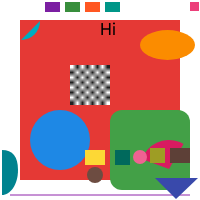
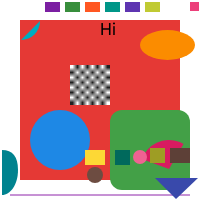
Add MODIFIER_CLIP_RECT and MODIFIER_ROUNDED_CLIP_RECT support
RecordingModifier.clip(Shape) writes different opcodes depending on
the concrete Shape subclass:
- clip(RectShape(...)) -> opcode 108 (MODIFIER_CLIP_RECT), confirmed
  to carry no payload at all — the next byte is straight into the
  following opcode.
- clip(RoundedRectShape(topStart, topEnd, bottomStart, bottomEnd)) ->
  opcode 54 (MODIFIER_ROUNDED_CLIP_RECT), confirmed via
  RoundedRectShape(4f, 4f, 4f, 4f) decoding to exactly
  [4.0, 4.0, 4.0, 4.0].

Both consumed byte-correctly as pass-throughs, same policy as the
other modifier opcodes.

Added a small purple (clip-rect) and olive (rounded-clip-rect) box to
the rc-writer sample and regenerated SamplePayload.kt (byte-verified
against tools/rc-writer/sample.rc). Desktop render confirmed correct.
33 real opcodes now supported.

Claude-Session: https://claude.ai/code/session_01GQQ3LnfhXR1mA4HeBBDnYg

Changed region(s): [[0.6, 0.0, 0.81, 0.06]]

diff --git a/src/commonMain/kotlin/com/example/remotecompose/demo/SamplePayload.kt b/src/commonMain/kotlin/com/example/remotecompose/demo/SamplePayload.kt
@@ -16,10 +16,12 @@ import kotlin.io.encoding.ExperimentalEncodingApi
  * `startBox`/`endBox` carrying an `onClick(HostAction(9))` modifier, a small purple rect wrapped
  * in a `startBox`/`endBox` carrying `padding()`/`background()` modifiers, a small green rect
  * wrapped in a `startBox`/`endBox` carrying a `visibility()` modifier, and a small orange rect
- * wrapped in a `startBox`/`endBox` carrying an `offset()` modifier, and a small teal rect wrapped
- * in a `startBox`/`endBox` carrying a `border()` modifier), not by anything in this codebase.
- * Shared by every platform demo entry point (iOS, Android) so they render byte-identical input —
- * the point of the cross-platform comparison is to catch *rendering* differences, not to
+ * wrapped in a `startBox`/`endBox` carrying an `offset()` modifier, a small teal rect wrapped in a
+ * `startBox`/`endBox` carrying a `border()` modifier, a small purple rect wrapped in a
+ * `startBox`/`endBox` carrying a `clip(RectShape(...))` modifier, and a small olive rect wrapped in
+ * a `startBox`/`endBox` carrying a `clip(RoundedRectShape(...))` modifier), not by anything in this
+ * codebase. Shared by every platform demo entry point (iOS, Android) so they render byte-identical
+ * input — the point of the cross-platform comparison is to catch *rendering* differences, not to
  * accidentally compare two different payloads.
  */
 @OptIn(ExperimentalEncodingApi::class)
@@ -42,6 +44,8 @@ val SAMPLE_RC_BYTES: ByteArray by lazy {
[6 lines of base64/hex data omitted]
+            "QAAAAEMgAABBQAAA1tY="
     )
 }

diff --git a/src/commonMain/kotlin/com/example/remotecompose/parser/RealRemoteComposeParser.kt b/src/commonMain/kotlin/com/example/remotecompose/parser/RealRemoteComposeParser.kt
@@ -265,6 +265,20 @@ object RealRemoteComposeParser {
     private const val OP_MODIFIER_BORDER = 107
 
     /**
+     * `Operations.MODIFIER_CLIP_RECT` — `RecordingModifier.clip(RectShape(...))` writes only the
+     * opcode tag, no payload — confirmed: the very next byte is the following opcode
+     * (`LAYOUT_CONTENT`'s `0xc9`), with nothing in between.
+     */
+    private const val OP_MODIFIER_CLIP_RECT = 108
+
+    /**
+     * `Operations.MODIFIER_ROUNDED_CLIP_RECT` — `RecordingModifier.clip(RoundedRectShape(topStart,
+     * topEnd, bottomStart, bottomEnd))` writes those 4 raw floats, confirmed via
+     * `RoundedRectShape(4f, 4f, 4f, 4f)` decoding to exactly `[4.0, 4.0, 4.0, 4.0]`.
+     */
+    private const val OP_MODIFIER_ROUNDED_CLIP_RECT = 54
+
+    /**
      * `drawTextAnchored` carries no font-size parameter — real font sizing comes from a text style
      * this minimal parser doesn't yet decode — so text is drawn at a fixed, reasonable default.
      */
@@ -489,6 +503,10 @@ object RealRemoteComposeParser {
                     reader.readS32() // shapeType
                 }
 
+                OP_MODIFIER_CLIP_RECT -> Unit // no payload
+
+                OP_MODIFIER_ROUNDED_CLIP_RECT -> repeat(4) { reader.readFloat32() } // topStart, topEnd, bottomStart, bottomEnd
+
                 else -> throw RemoteComposeParseException(
                     "Real opcode $opId is outside the minimal subset this demo parser supports " +
                         "(Header/DataText/RootContentDescription/PaintBundle/DrawRect/DrawCircle/" +
@@ -496,7 +514,8 @@ object RealRemoteComposeParser {
[2 lines of base64/hex data omitted]
                         "ModifierClick/HostAction/ModifierPadding/ModifierBackground/" +
-                        "ModifierVisibility/ModifierOffset/ModifierBorder)",
[1 lines of base64/hex data omitted]
+                        "ModifierRoundedClipRect)",
                 )
             }
         }

diff --git a/tools/rc-writer/src/main/kotlin/Main.kt b/tools/rc-writer/src/main/kotlin/Main.kt
@@ -3,6 +3,8 @@ import androidx.compose.remote.creation.RemoteComposeWriter
 import androidx.compose.remote.creation.RemotePath
 import androidx.compose.remote.creation.actions.HostAction
 import androidx.compose.remote.creation.modifiers.RecordingModifier
+import androidx.compose.remote.creation.modifiers.RectShape
+import androidx.compose.remote.creation.modifiers.RoundedRectShape
 import java.io.File
 
 fun main() {
@@ -148,6 +150,20 @@ fun main() {
         .setColor(0xFF009688.toInt())
         .commit()
     writer.drawRect(105f, 2f, 120f, 12f)
+    writer.endBox()
+
+    writer.startBox(RecordingModifier().clip(RectShape(0f, 0f, 8f, 8f)), 0, 0)
+    writer.getRcPaint()
+        .setColor(0xFF5E35B1.toInt())
+        .commit()
+    writer.drawRect(125f, 2f, 140f, 12f)
+    writer.endBox()
+
+    writer.startBox(RecordingModifier().clip(RoundedRectShape(4f, 4f, 4f, 4f)), 0, 0)
+    writer.getRcPaint()
+        .setColor(0xFFC0CA33.toInt())
+        .commit()
+    writer.drawRect(145f, 2f, 160f, 12f)
     writer.endBox()
 
     val bytes = writer.encodeToByteArray()
